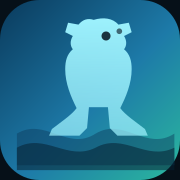
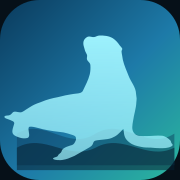
feat: real sea lion silhouette from NIH BioArt 489 (public domain)
Replaces the hand-drawn one. Source: 'Sea Lion Silhouette' by Ryan
Kissinger / NIAID, NIH BioArt 489 — released into the public domain via
Wikimedia Commons. Same gradient palette applied as fill.

The figure is a side-profile sea lion at rest (head up, body curved
along the ground, rear flippers extended to one side) — recognisable
as a sea lion at any size, which the previous attempt wasn't.

Changed region(s): [[0.0278, 0.0833, 0.9722, 0.8889]]

diff --git a/src/App.tsx b/src/App.tsx
@@ -743,22 +743,18 @@ export default function App() {
       <header className="hero">
         <div className="brand">
           <div className="logo" aria-hidden="true">
-            <svg viewBox="0 0 32 32">
+            {/* Sea lion silhouette by Ryan Kissinger / NIAID, NIH BioArt 489 — public domain */}
+            <svg viewBox="0 0 500 500">
               <defs>
                 <linearGradient id="lg" x1="0" y1="0" x2="1" y2="1">
                   <stop offset="0" stopColor="#5fd0ff" />
                   <stop offset="1" stopColor="#2bb89e" />
                 </linearGradient>
               </defs>
-              {/* Standing sea lion: head tilted up, body vertical, rear flippers fanned at base */}
               <path
-                d="M15 3 C17 2.4 19 2.6 20.2 4 L22.4 3.6 L23 5.6 L21.4 6.4 C22 7.4 22 8.4 21.4 9.2 C22.6 10.2 23 11.6 23 13.4 C23 16.4 21.8 19.2 20.6 21.6 C21.6 23 24 24.6 25.8 26 L26.4 27.4 L20 27.4 L18.4 25.8 L18 21.4 L14 21.4 L13.6 25.8 L12 27.4 L5.6 27.4 L6.2 26 C8 24.6 10.4 23 11.4 21.6 C10.2 19.2 9 16.4 9 13.4 C9 11.6 9.4 10.2 10.6 9.2 C10 8.4 10 7.4 10.6 6.4 L9 5.6 L9.6 3.6 L11.8 4 C12.7 2.9 13.8 2.6 15 3 Z"
+                d="M484.89,405.07c-.58-1.28-1.79-2.23-2.7-3.3-1.79-2.19-1.45-5.46-3.2-7.79-6.19-6.57-14.73-12.71-24.01-13.9-15.06-1.39-30.06,1.25-45.13.95-11.66.09-26.16,1.63-34.31-8.37-8.26-9.81-4.88-23.37-3.05-34.89,2.42-18.04,8.78-35.42,9.38-53.72.27-3.57,1.01-7.06.74-10.54-.17-4.24-1.52-8.39-1.66-12.74-.43-18.95-14.42-33.37-20.86-50.36-5.76-15.09-12.91-29.95-16.53-45.75-1.09-6.24-2.19-12.41-3.22-18.77-.25-1.64-.58-3.27-.64-4.91-.19-3.18,1.62-4.77,2.02-6.94.32-1.76-.81-3.42-1.91-4.75-1.79-2.16-3.74-4.13-5.43-6.36-5.1-7.73-11.34-14.68-19.06-19.88-11.45-7.12-25.56-8.4-38.72-7.89-4.2.17-7.95,1.98-11.77,3.56-9.79,3.58-16.55-5.48-26.2,2.72-10.16,7.97-8.4,19.02-4.71,29.91.63,2.12,1.14,4.3,1.79,6.41,1.29,4.41,4.19,7.85,5.66,11.96.9,3.11.17,5.59-.17,8.99-1.45,9.48,9.39,11.46,9.86,20.52.65,8.43.17,17.26-1.57,25.62-4.06,16.71-12.59,32.13-19.85,47.6-3.03,5.68-9.51,6.7-15.43,7.46-6.58.86-13,1.27-19.43,2.66-5.01,1.11-10.11,1.76-15.14,2.74-7.33,1.5-14.43,3.85-21.79,5.2-15.5,2.86-30.84,6.79-45.36,13-9.25,3.34-18.63,6.52-27.19,11.42-6.34,4-13.14,7.79-19.23,11.91-3.04,2.02-5.94,4.38-9.32,5.78-7.45,3.01-15.22-2.21-22.84-.74-2.1.39-3.46,1.68-4.78,3.18-2.16,2.37-4.24,5.08-7.39,6.2-3.99,2.51-14.31-.19-15.26,5.04.68,4.41,6.58,5.23,10.1,6.69,4.85,1.82,9.62,3.48,14.08,5.93,7.14,3.84,2.41,9.8,1.11,15.65-5.08,16.54-4.05,23.11,13.4,29.24,6.66,2.48,13.66,4.46,20.82,3.61,3.38-.28,7.61-.48,9.62-3.57,4.44-7.5-3.39-20.82.52-27.98,3.08-5.24,32.33,3.93,38.44,5.43,10.18,2.58,20.95,3.99,31.35,5.78,9.61,1.18,19.16,2.3,28.76,3.62,8.17,1.53,16.11,4.32,23.94,6.74,4.65,1.57,11.14,3.21,11.33,8.89.78,2.99.07,6.6-1.57,9.62-2.26,4.76-4.42,8.59-9.18,10.49-4.85,1.86-10.27,2.64-15.15,4.92-6,2.58-12.93,5.78-14.68,12.57-.98,3.3-3.7,6.02-6.63,7.88-2.58,1.5-3.21,4.05-4.72,6.3-2.27,2.81-10.95,3.39-12.89,5.95-3.49,5.82,23.77,6.27,26.76,4.82,5.28-1.02,10.59-1.9,15.55-3.87,6-2.59,12.33-4.79,18.21-7.52,14.51-8.01,28.67-16.62,43.16-24.55,3.19-1.85,6.18-4.13,8.11-7.3,2.14-3.42,2.29-7.39,5.1-9.82,2.32-1.96,5.6-2.25,8.54-2.81,5.08-.92,10.43-1.08,15.62-1.82,8.61-1.12,17.57-1.32,25.62-4.69,6.01-2.56,12.07-5.68,17.02-9.94,5.52-4.51,10.64-10.57,15.6-15.56.92-.9,1.09,3.15,1.23,4.36,1.52,15.46,3.43,23.79,16.46,33.72,9.21,7.61,21.14,10.32,32.69,12.59,9.5,2.51,19.27,1.89,28.85,2.28,7.74.65,15.89,1.58,23.77,1.57,11.11.21,23.25.26,33.32-4.69,2.8-1.5,5.01-3.11,4.17-5.67l-.04-.11Z"
                 fill="url(#lg)"
               />
-              {/* Eye */}
-              <circle cx="17.6" cy="6.4" r="0.7" fill="#04101c" opacity="0.85" />
-              {/* Nose dot */}
-              <circle cx="20.4" cy="5.4" r="0.45" fill="#04101c" opacity="0.6" />
             </svg>
           </div>
           <div>
